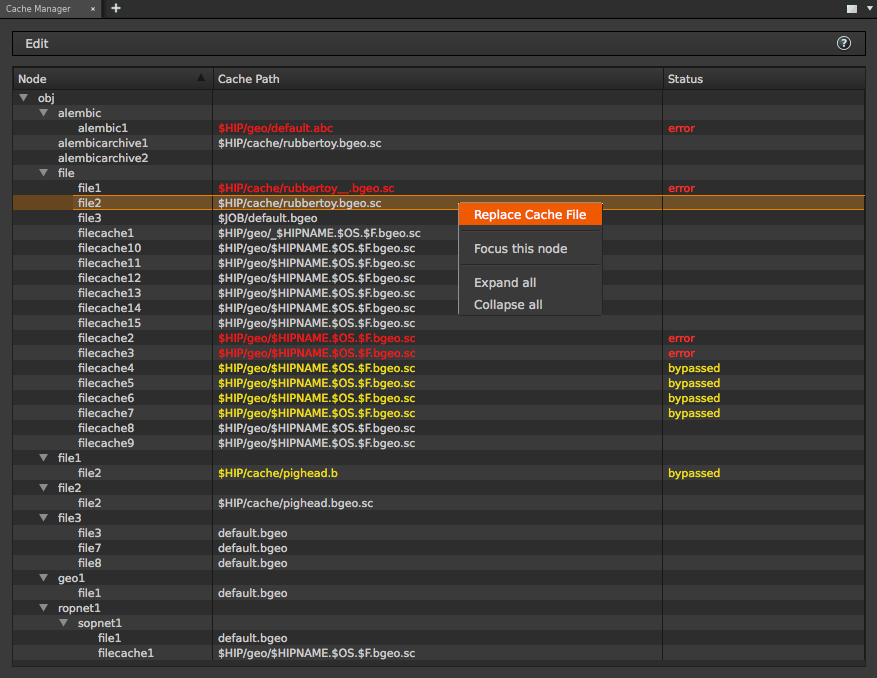
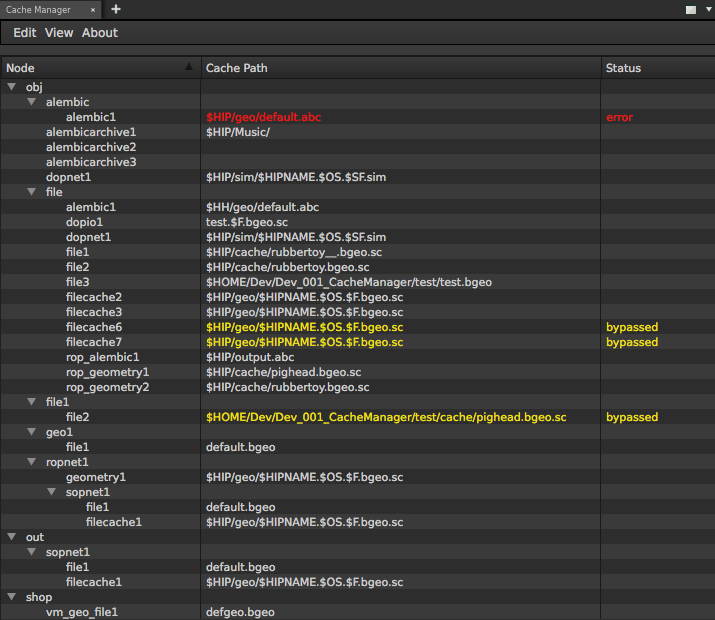
Uplate Cache Manager doc.

diff --git a/docs/cacheManager.md b/docs/cacheManager.md
@@ -2,8 +2,47 @@
 
 ![alt tag](img/ss_cache_manager_0001.png)
 
-## Demo
-
 ## Feature
 
 * List cache nodes scatted everywhere in Houdini scene.
+* Filter Read/Write and Multi type of nodes
+
+## How to
+
+* Update view with "Ctrl+R"("⌘+R" on Mac) or "F5".
+* RMB click over each items and show a menu.
+* Click "Replace Cache File" in RMB Menu for opening a file select dialog.
+* Click "Focus this node" in RMB Menu for selecting the node you RMB clicked.
+* View > "Toggle R/W" show Read/Write type of nodes.
+* View > "Both Nodes" or "Read Nodes Only" or "Write Nodes Only" filter displayed nodes by Read/Write type.
+
+## Supported Nodes
+
+### SOP
+| Node               | Parameter     |
+|:-------------------|:--------------|
+| Alembic            | File Name     |
+| Alembic Archive    | File name     |
+| Dop I/O            | Geometry File |
+| File               | Geometry File |
+| File Cache         | Geometry File |
+| MDD                | MDD File      |
+| ROP Alembic Driver | Alembic File  |
+| ROP Output Driver  | Output File   |
+| Table Import       | File          |
+
+### DOP
+| Node        | Parameter     |
+|:------------|:--------------|
+| Dop Network | Geometry File |
+
+### ROP
+| Node     | Parameter    |
+|:---------|:-------------|
+| Alembic  | Alembic File |
+| Geometry | Output File  |
+
+### SHOP
+| Node                    | Parameter     |
+|:-----------------------:|:-------------:|
+| Delayed Load Procedural | Geometry File |
